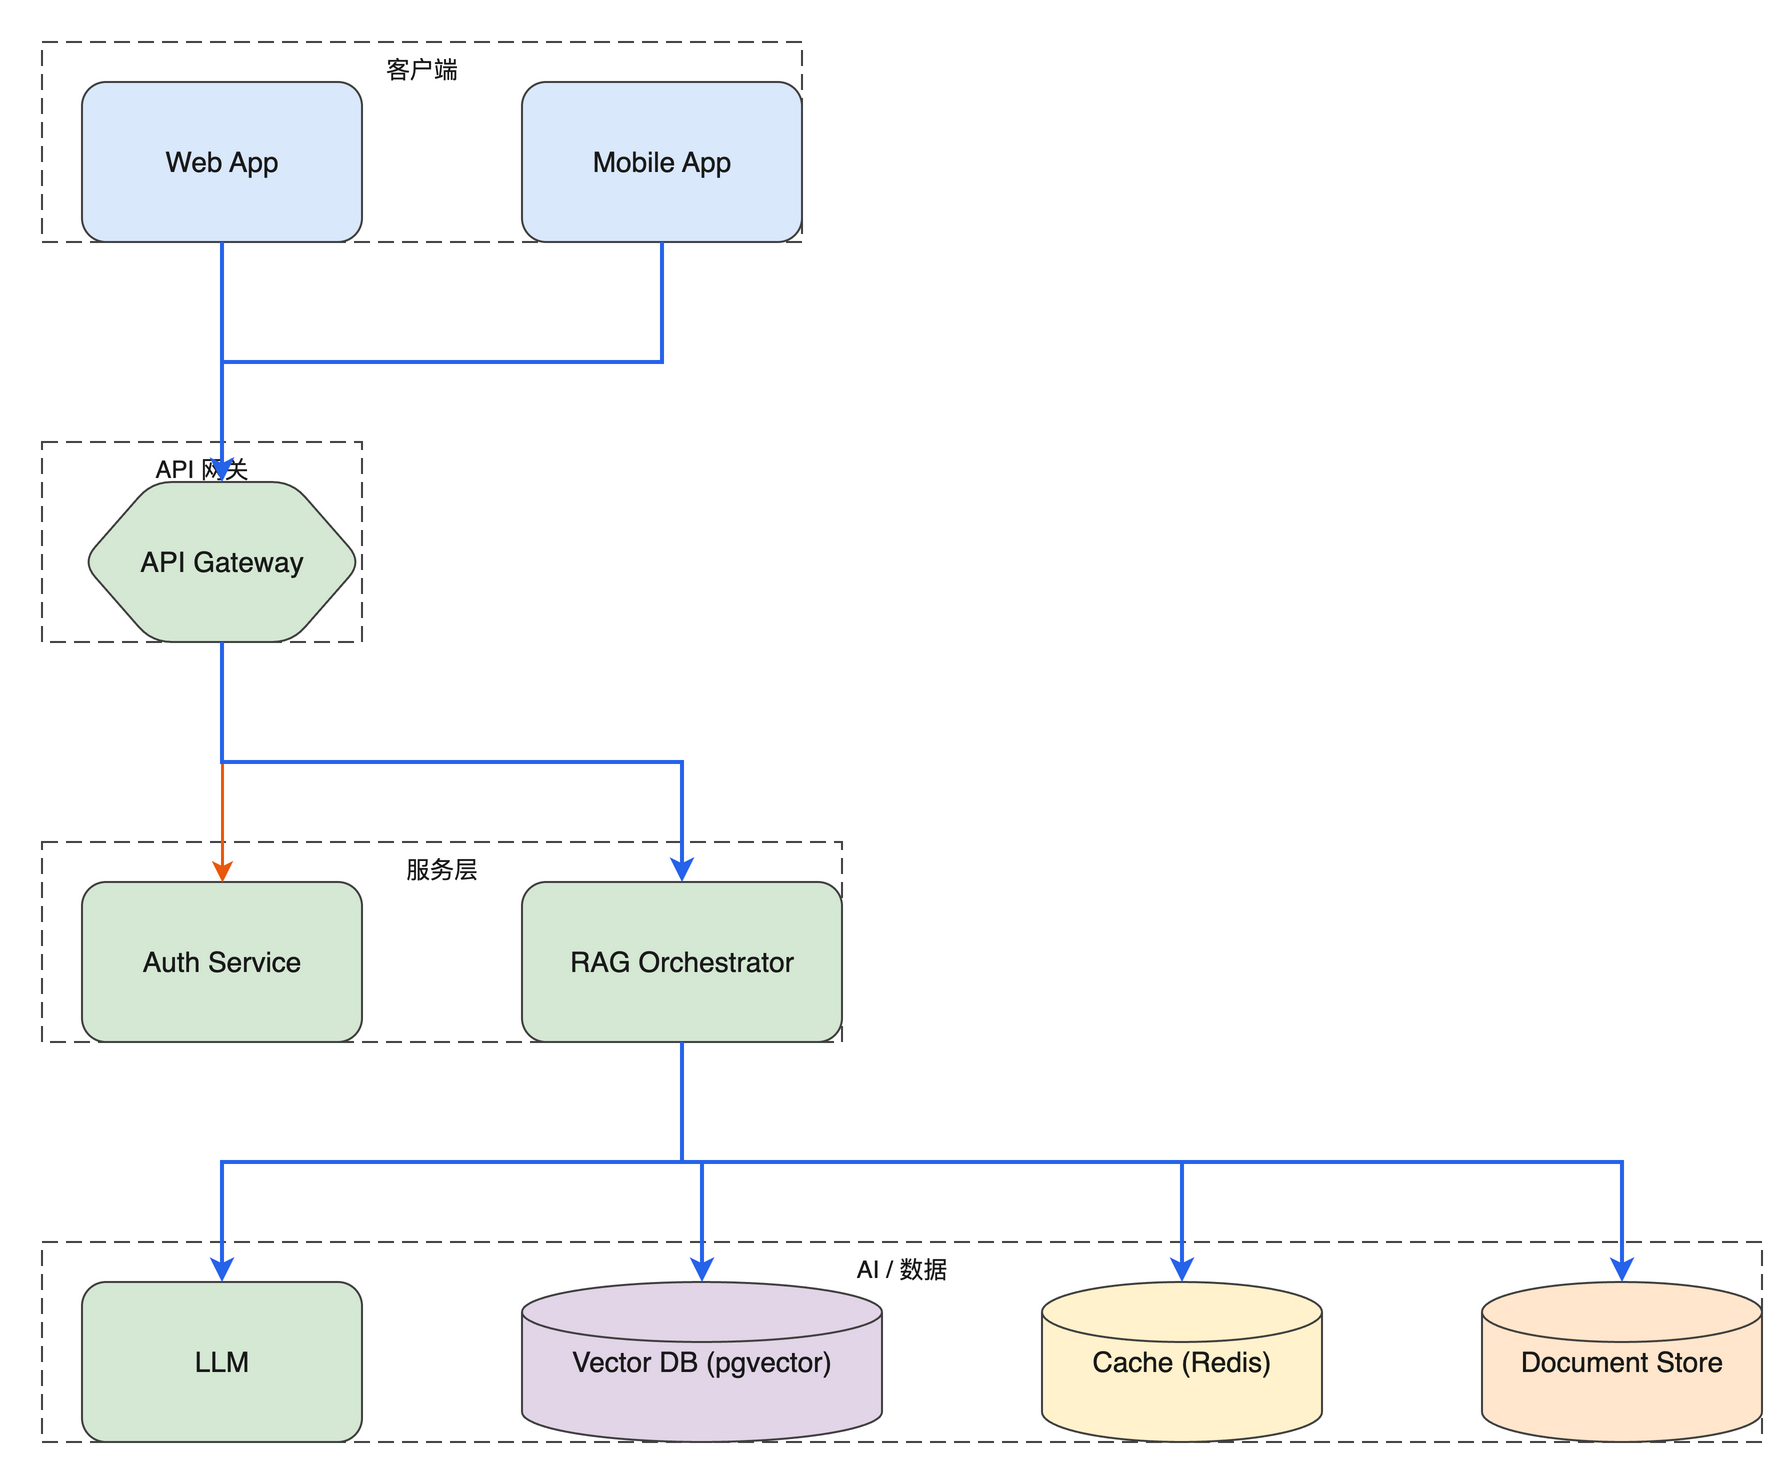
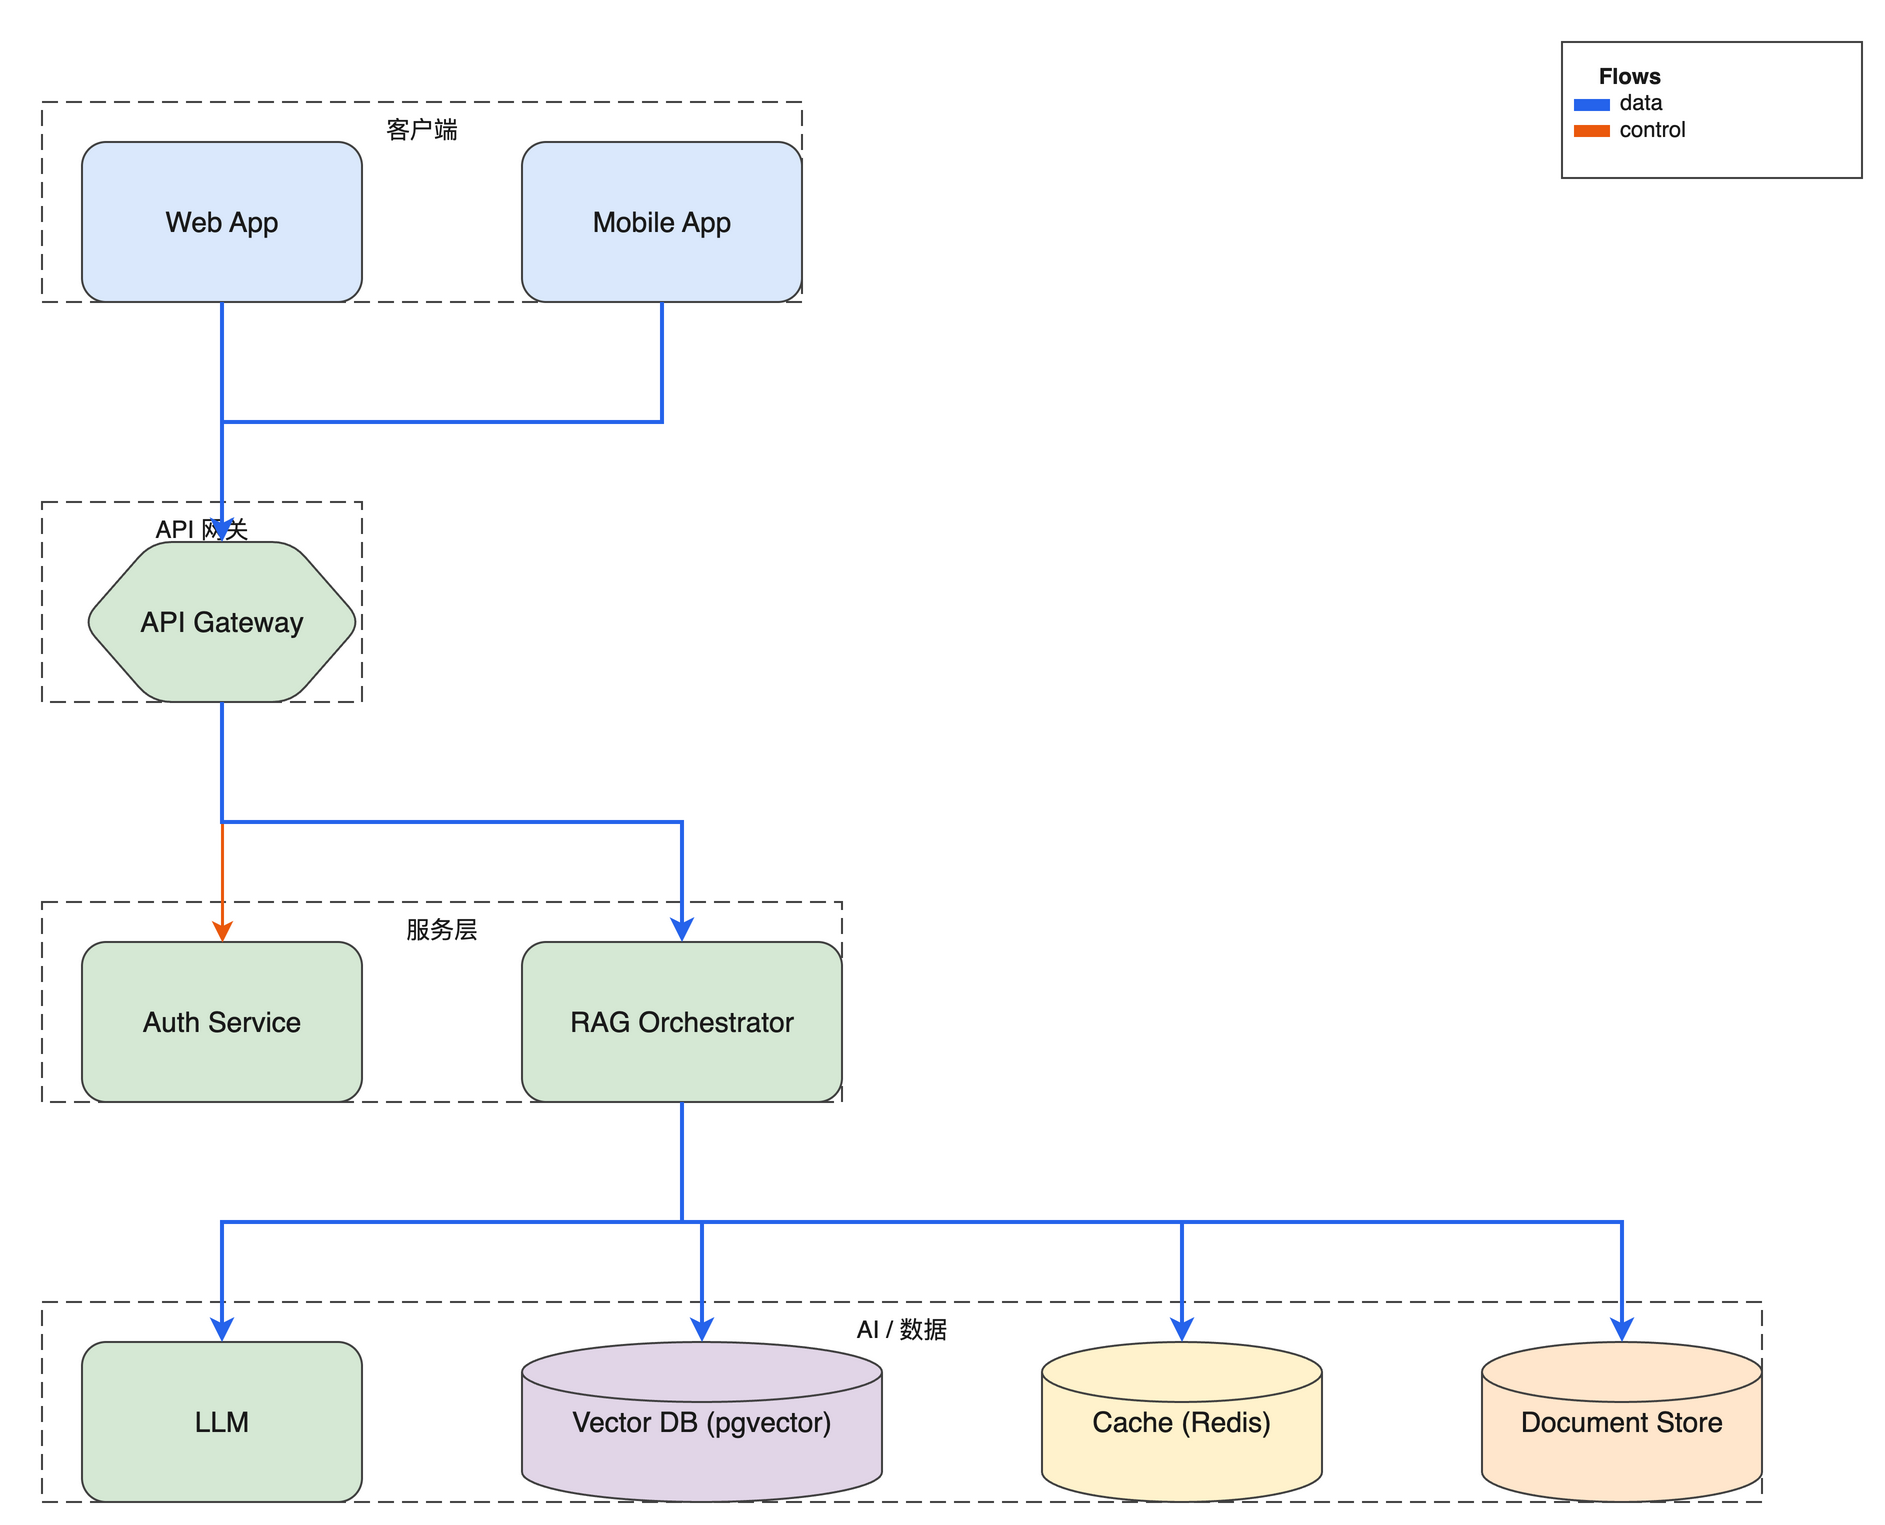
feat(drawio-diagram): auto-legend for multi-flow diagrams
When a diagram uses 2+ distinct edge flows, the renderer emits a small
'Flows' legend box (top-right) listing each flow with a colored swatch +
name, so the arrow colors are self-documenting. Single-flow / no-flow
diagrams get no legend.

- renderer-only single touchpoint: scans geom['edges'] for distinct flows
  via distinct_flows(); emits an HTML-label rect cell 'legend_flows'.
- colors reuse styles.EDGE_COLORS; placement is top-right inside canvas.
- re-rendered rag-architecture (data + control) — legend now appears.
- TDD: 5 render tests (omitted for 0/1/shared flow; present + lists names
  + includes colors for 2+).

diff --git a/drawio-diagram/tests/test_render.py b/drawio-diagram/tests/test_render.py
@@ -235,3 +235,64 @@ def test_render_node_without_provider_uses_kind_shape():
     xml = render.render(geom)
     assert "shape=cylinder3" in xml
     assert "mxgraph." not in xml
+
+
+# --- legend for multi-flow diagrams ---
+
+def test_legend_omitted_when_single_flow():
+    geom = _geom()
+    geom["edges"] = [{"source": "a", "target": "a", "label": "x",
+                      "flow": "data", "points": [[130, 140], [130, 300]]}]
+    xml = render.render(geom)
+    assert "legend_" not in xml  # no legend cell
+
+
+def test_legend_omitted_when_all_edges_share_flow():
+    geom = _geom()
+    geom["edges"] = [
+        {"source": "a", "target": "a", "flow": "control",
+         "points": [[130, 140], [130, 200]]},
+        {"source": "a", "target": "a", "flow": "control",
+         "points": [[130, 200], [130, 300]]},
+    ]
+    xml = render.render(geom)
+    assert "legend_" not in xml
+
+
+def test_legend_present_when_two_distinct_flows():
+    geom = _geom()
+    geom["edges"] = [
+        {"source": "a", "target": "a", "flow": "data",
+         "points": [[130, 140], [130, 200]]},
+        {"source": "a", "target": "a", "flow": "control",
+         "points": [[130, 200], [130, 300]]},
+    ]
+    xml = render.render(geom)
+    assert "legend_" in xml
+
+
+def test_legend_lists_each_flow_name():
+    geom = _geom()
+    geom["edges"] = [
+        {"source": "a", "target": "a", "flow": "data",
+         "points": [[130, 140], [130, 200]]},
+        {"source": "a", "target": "a", "flow": "async",
+         "points": [[130, 200], [130, 300]]},
+    ]
+    xml = render.render(geom)
+    assert "data" in xml
+    assert "async" in xml
+
+
+def test_legend_includes_flow_colors():
+    geom = _geom()
+    geom["edges"] = [
+        {"source": "a", "target": "a", "flow": "data",
+         "points": [[130, 140], [130, 200]]},
+        {"source": "a", "target": "a", "flow": "control",
+         "points": [[130, 200], [130, 300]]},
+    ]
+    xml = render.render(geom)
+    # data=blue, control=orange hexes appear in the legend swatches
+    assert "2563eb" in xml  # data blue
+    assert "ea580c" in xml  # control orange

diff --git a/drawio-diagram/scripts/render_drawio.py b/drawio-diagram/scripts/render_drawio.py
@@ -37,6 +37,8 @@ def render(geom: dict) -> str:
     for index, e in enumerate(geom["edges"]):
         _add_edge(root, e, style_name, index)
 
+    _add_legend_if_needed(root, geom, style_name)
+
     ET.indent(mxfile, space="  ")
     return ET.tostring(mxfile, encoding="unicode")
 
@@ -245,6 +247,64 @@ def _add_frame(root, d, style_name):
         "x": str(d["x"]), "y": str(d["y"]),
         "width": str(d["width"]), "height": str(d["height"]), "as": "geometry",
     })
+
+
+def distinct_flows(edges: list[dict]) -> list[str]:
+    """Distinct, insertion-ordered flow names actually used by the edges.
+    Empty/None flows are collapsed to a single 'default' bucket so a diagram
+    mixing unlabeled edges with one labeled flow still counts as 2 flows."""
+    seen: list[str] = []
+    for e in edges:
+        flow = e.get("flow") or "default"
+        if flow not in seen:
+            seen.append(flow)
+    return seen
+
+
+def _add_legend_if_needed(root, geom: dict, style_name: str):
+    """When a diagram uses 2+ distinct edge flows, emit a small legend box so
+    the colors are self-documenting. Placed top-right inside the canvas. No-op
+    for 0 or 1 flows. A decoration, not a semantic node — purely informational.
+    """
+    flows = distinct_flows(geom.get("edges", []))
+    if len(flows) < 2:
+        return
+    st = styles.STYLES[style_name]
+    label = _legend_html(flows, st)
+    style_str = (
+        "rounded=0;whiteSpace=wrap;html=1;fillColor=#ffffff;"
+        f"strokeColor={st['stroke']};dashed=0;"
+        f"fontColor={st['font_color']};fontSize=11;align=left;verticalAlign=top;"
+        "spacing=6;"
+    )
+    cell = ET.SubElement(root, "mxCell", {
+        "id": "legend_flows", "value": label, "style": style_str,
+        "vertex": "1", "parent": _ROOT_PARENT_ID,
+    })
+    # Size: ~140 wide, 22px per flow row + header. Place top-right with margin.
+    row_h = 20
+    h = 28 + len(flows) * row_h
+    w = 150
+    cw = geom["canvas"]["width"]
+    x = max(0, cw - w - 10)
+    ET.SubElement(cell, "mxGeometry", {
+        "x": str(x), "y": "10",
+        "width": str(w), "height": str(h), "as": "geometry",
+    })
+
+
+def _legend_html(flows: list[str], st: dict) -> str:
+    """Build the legend's HTML label: a bold 'Flows' header, then one row per
+    flow = a colored bar swatch (using the edge color) + the flow name."""
+    rows = ['<div style="text-align:center"><b>Flows</b></div>']
+    for flow in flows:
+        color = styles.EDGE_COLORS.get(flow, styles.EDGE_COLORS["default"])
+        name = flow if flow != "default" else "default"
+        # inline-block colored bar + label, kept simple for draw.io's HTML renderer
+        bar = (f'<span style="display:inline-block;width:18px;height:6px;'
+               f'background:{color};margin-right:5px;vertical-align:middle;"></span>')
+        rows.append(f'<div>{bar}{_esc(name)}</div>')
+    return "".join(rows)
 
 
 def _add_edge(root, e, style_name, index):